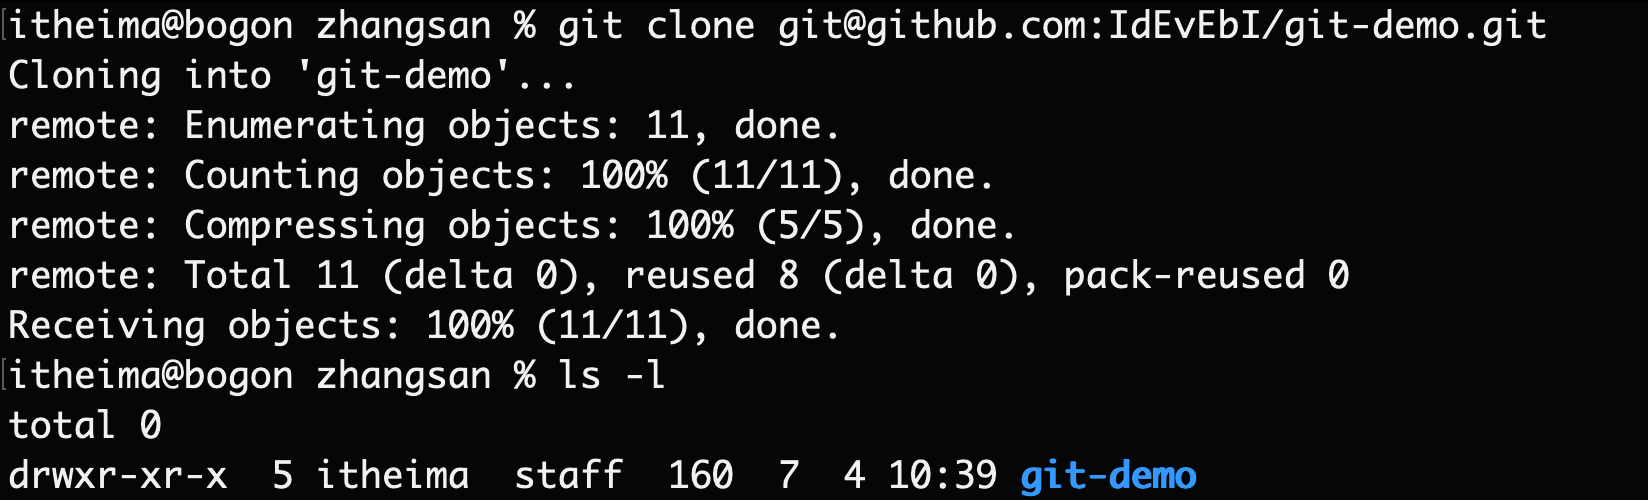
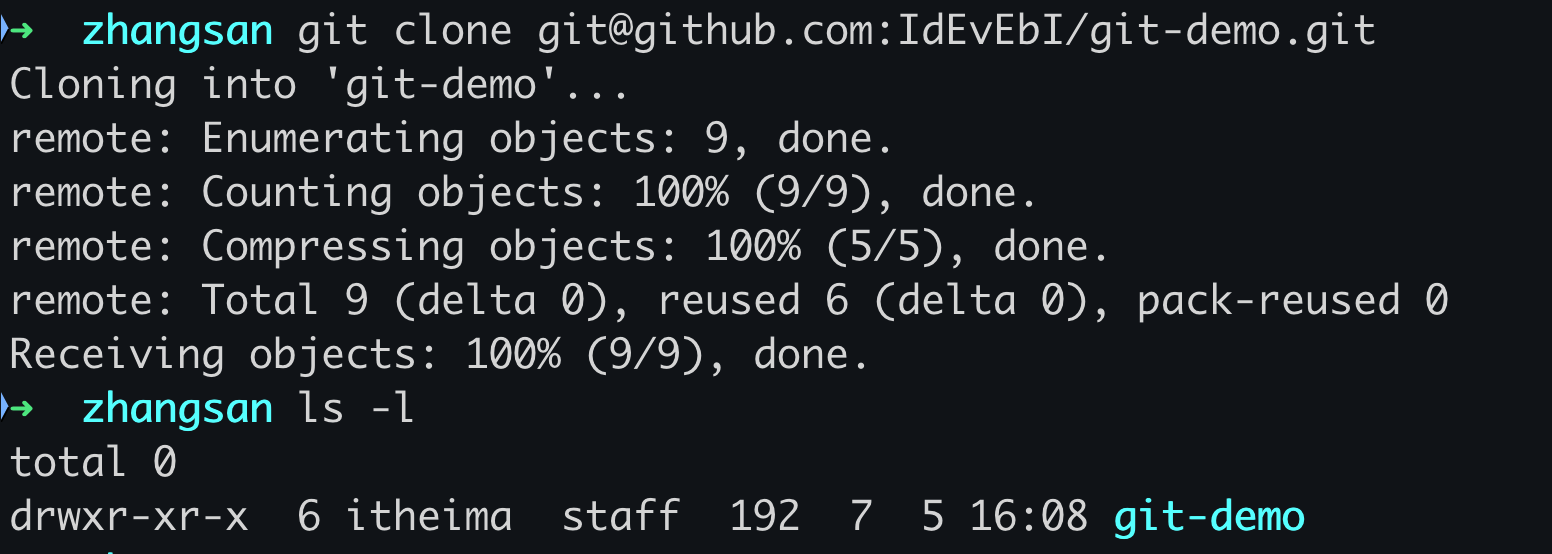
fixed: replace git basic branch images with iterm

diff --git a/docs/git/git-branch-management-and-collaboration.md b/docs/git/git-branch-management-and-collaboration.md
@@ -269,6 +269,9 @@ git status
 # 拉取远程仓库的更新
 git pull origin main 
 
+# 查看状态，明确具体冲突的文件
+git status
+
 # 查看 README.md 内容
 cat README.md
 ```
@@ -294,10 +297,12 @@ git commit -m '合并并解决 README 冲突'
 git push origin main
 ```
 
+![添加、提交、推送到远程仓库](./assets/git-branch-and-collaboration/git-add-commit-push.png)
+
 ![合并冲突后远程仓库的内容](./assets/git-branch-and-collaboration/github-after-merge-conflict..png)
 
 ## 5. 结语
 
-在本篇文章中，总结了个人在 Git 分支管理和协作开发中的经验，包括分支的**创建**、**切换**、**合并**和**删除**，以及**如何使用远程仓库进行协作开发**。通过这些内容，希望你能够更好地掌握 Git 的分支管理和协作开发技巧。在接下来的文章中，我们将深入探讨 Git 的更多高级功能和最佳实践，期待与你继续交流。
+在本篇文章中，总结了个人在 Git 分支管理和协作开发中的经验，包括分支的**创建**、**切换**、**合并**和**删除**，以及**如何使用远程仓库进行协作开发**。通过这些内容，希望你能够更好地掌握 Git 的分支管理和协作开发技巧。在接下来的文章中，我们将深入探讨 Git 的更多**高级操作和最佳实践**，期待与你继续交流。
 
 > 本专栏文档及配套代码的 GitHub 地址：[壹刀流的技术人生](https://github.com/IdEvEbI/idevebi.github.io)。
